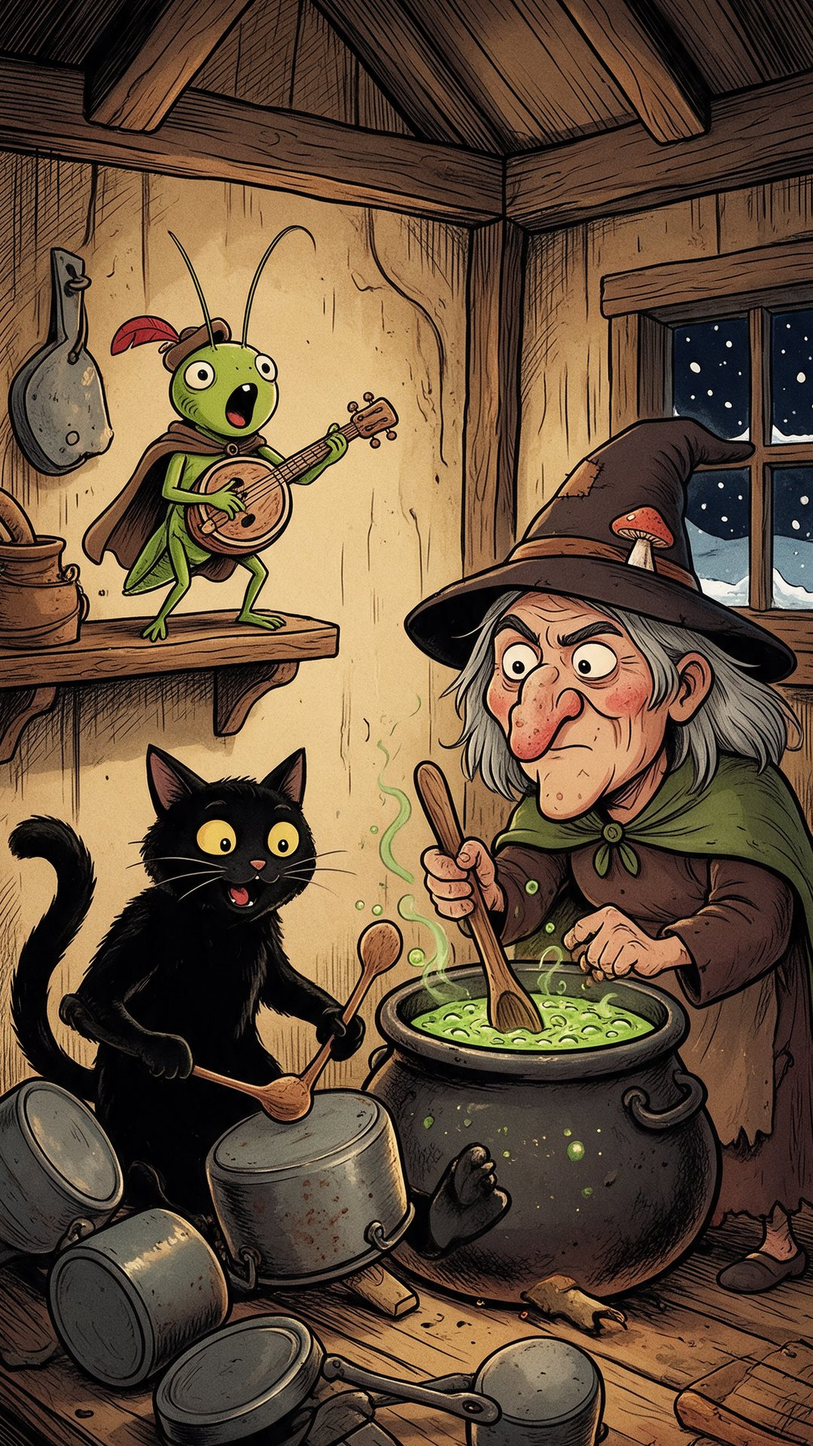
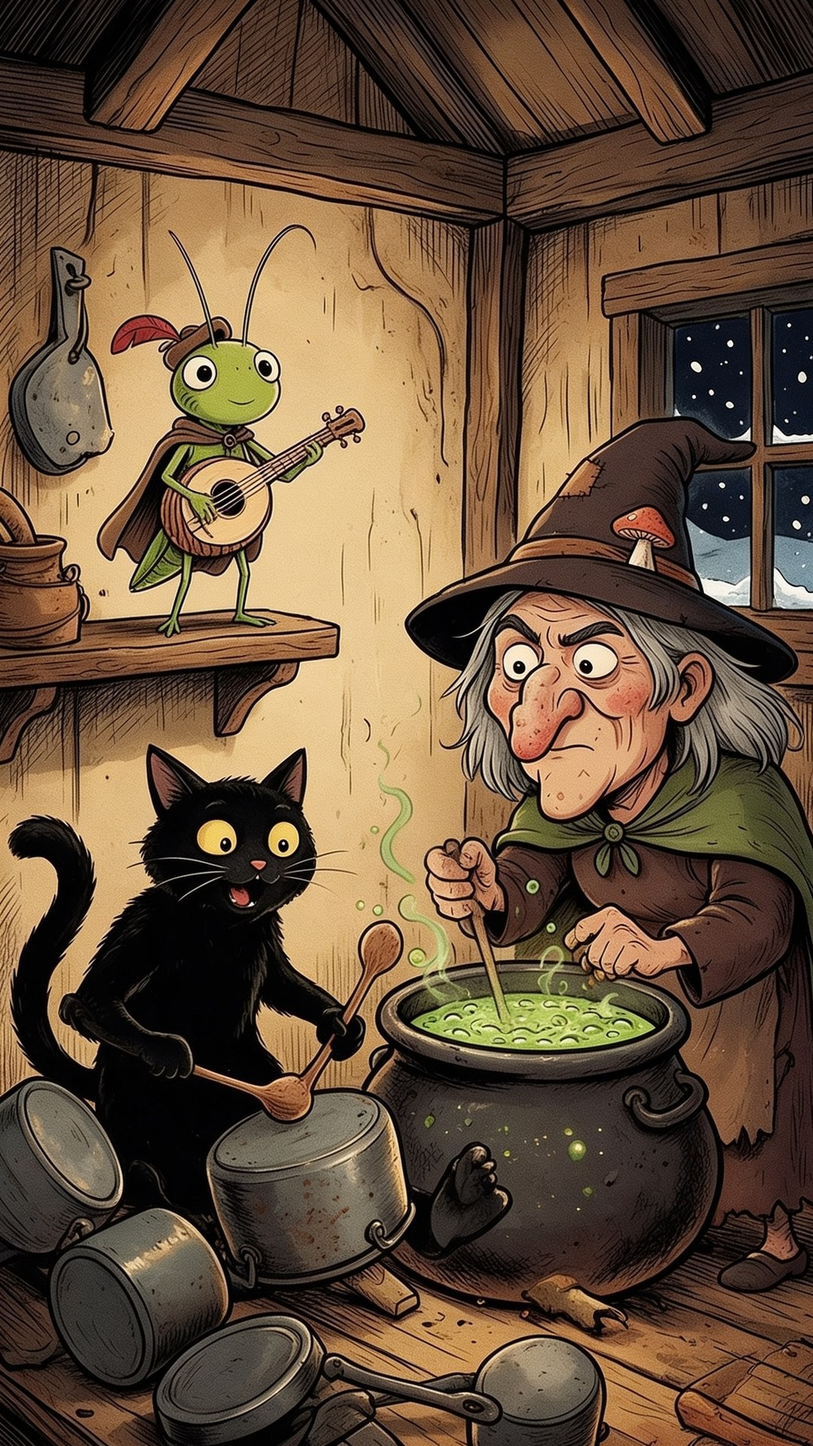
Quest 24: Zirpia Laute: grosse Bilder
Claude-Session: https://claude.ai/code/session_013ksHH1RN3knNHjnsFznGtM

diff --git a/index.html b/index.html
@@ -9,7 +9,7 @@
 <meta name="robots" content="noindex">
 <link rel="preconnect" href="https://fonts.googleapis.com"><link rel="preconnect" href="https://fonts.gstatic.com" crossorigin>
 <link href="https://fonts.googleapis.com/css2?family=Grenze+Gotisch:wght@500;700;800&family=Alegreya:ital,wght@0,400;0,500;0,700;1,400&family=Alegreya+SC:wght@500;700&display=swap" rel="stylesheet">
-<link rel="stylesheet" href="style.css?v=1794153739">
+<link rel="stylesheet" href="style.css?v=1794155327">
 </head>
 <body>
 
@@ -59,25 +59,25 @@
 <div id="sheet" class="ovl sheet"></div>
 <div id="toast" class="toast"></div>
 
-<script src="gate.js?v=1794153739"></script>
-<script src="engine.js?v=1794153739"></script>
-<script src="scene.js?v=1794153739"></script>
-<script src="dice.js?v=1794153739"></script>
-<script src="items.js?v=1794153739"></script>
-<script src="battle.js?v=1794153739"></script>
-<script src="ui.js?v=1794153739"></script>
-<script src="slyr.js?v=1794153739"></script>
-<script src="games.js?v=1794153739"></script>
-<script src="bossgames.js?v=1794153739"></script>
-<script src="films.js?v=1794153739"></script>
-<script src="days1.js?v=1794153739"></script>
-<script src="days2.js?v=1794153739"></script>
-<script src="days3.js?v=1794153739"></script>
-<script src="days4.js?v=1794153739"></script>
-<script src="hero.js?v=1794153739"></script>
-<script src="qrcode.js?v=1794153739"></script>
-<script src="komplize.js?v=1794153739"></script>
-<script src="urkunde.js?v=1794153739"></script>
-<script src="main.js?v=1794153739"></script>
+<script src="gate.js?v=1794155327"></script>
+<script src="engine.js?v=1794155327"></script>
+<script src="scene.js?v=1794155327"></script>
+<script src="dice.js?v=1794155327"></script>
+<script src="items.js?v=1794155327"></script>
+<script src="battle.js?v=1794155327"></script>
+<script src="ui.js?v=1794155327"></script>
+<script src="slyr.js?v=1794155327"></script>
+<script src="games.js?v=1794155327"></script>
+<script src="bossgames.js?v=1794155327"></script>
+<script src="films.js?v=1794155327"></script>
+<script src="days1.js?v=1794155327"></script>
+<script src="days2.js?v=1794155327"></script>
+<script src="days3.js?v=1794155327"></script>
+<script src="days4.js?v=1794155327"></script>
+<script src="hero.js?v=1794155327"></script>
+<script src="qrcode.js?v=1794155327"></script>
+<script src="komplize.js?v=1794155327"></script>
+<script src="urkunde.js?v=1794155327"></script>
+<script src="main.js?v=1794155327"></script>
 </body>
 </html>
